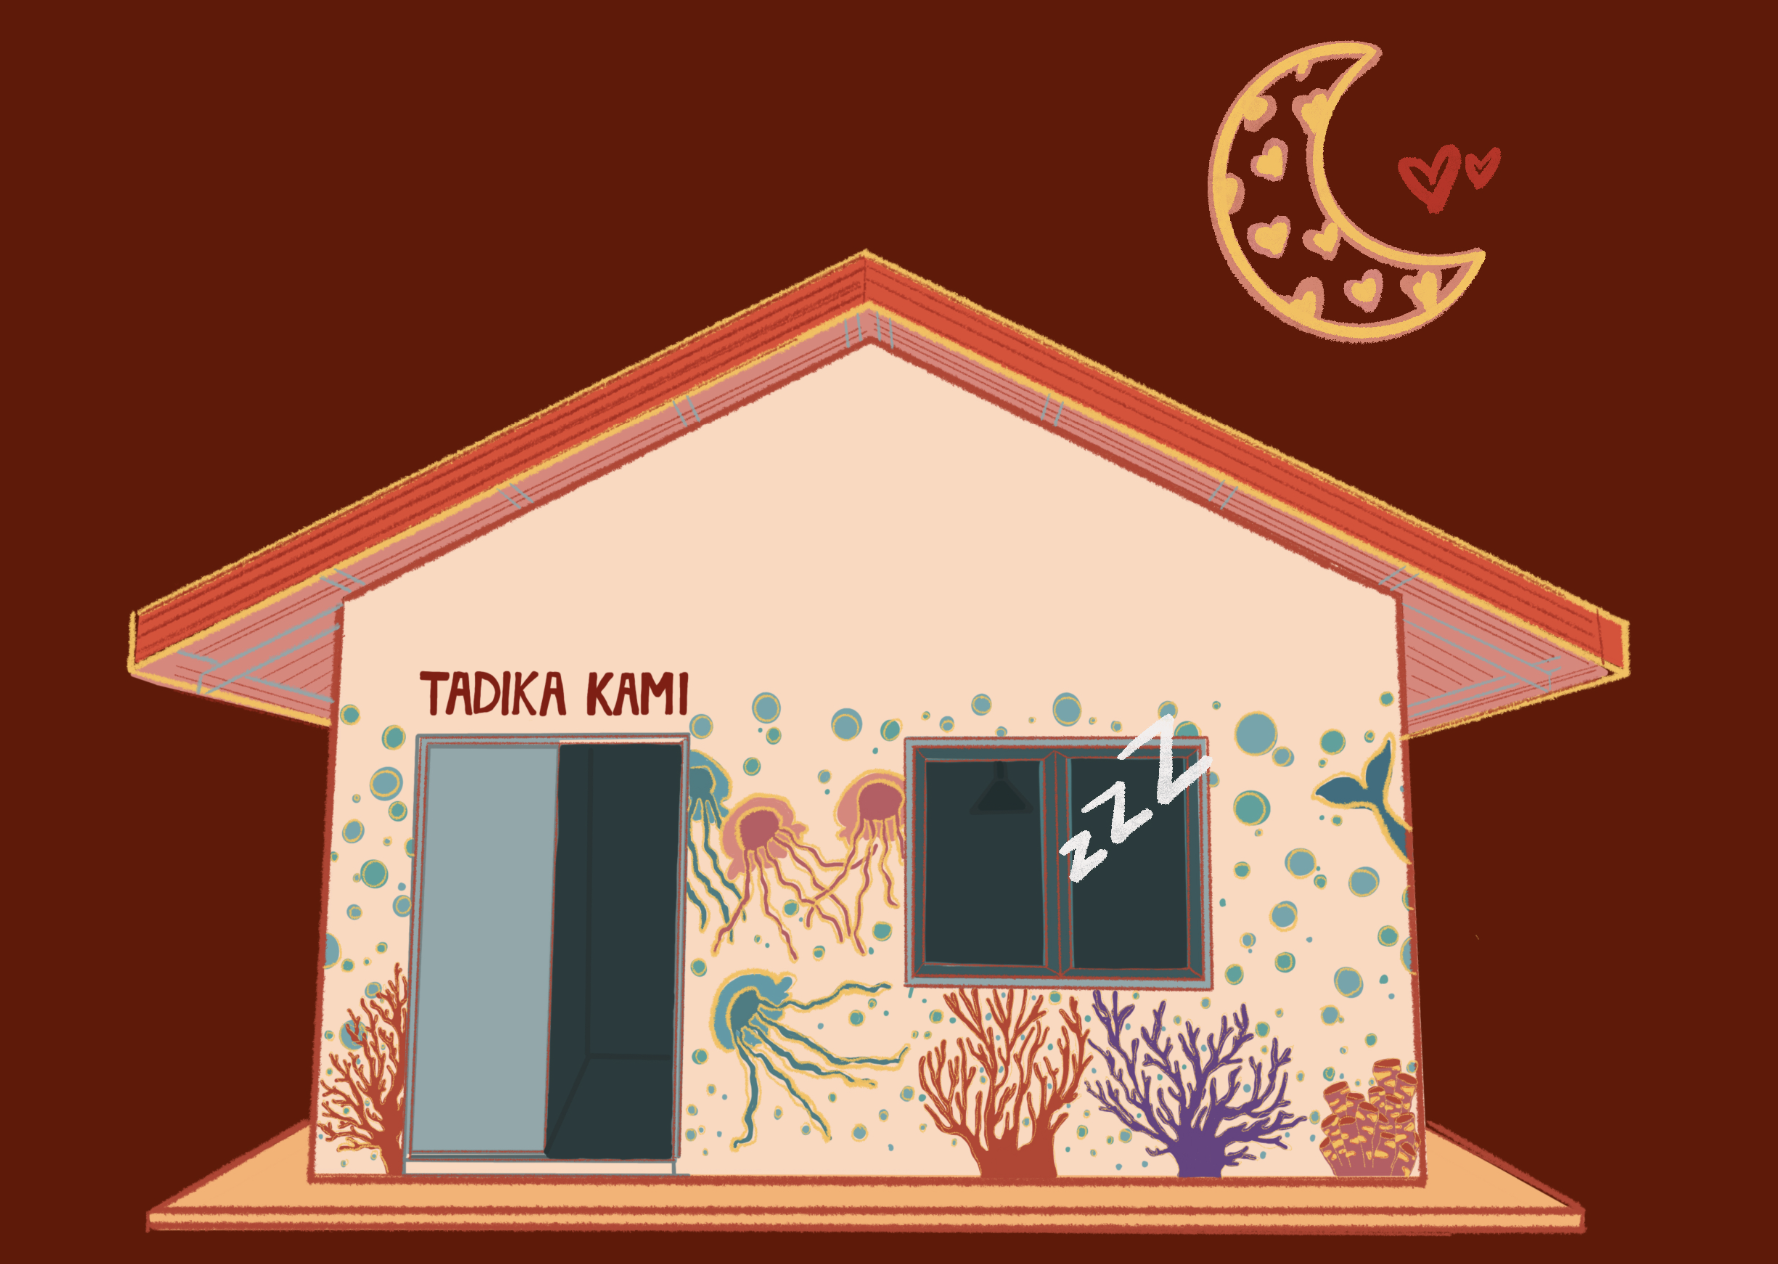
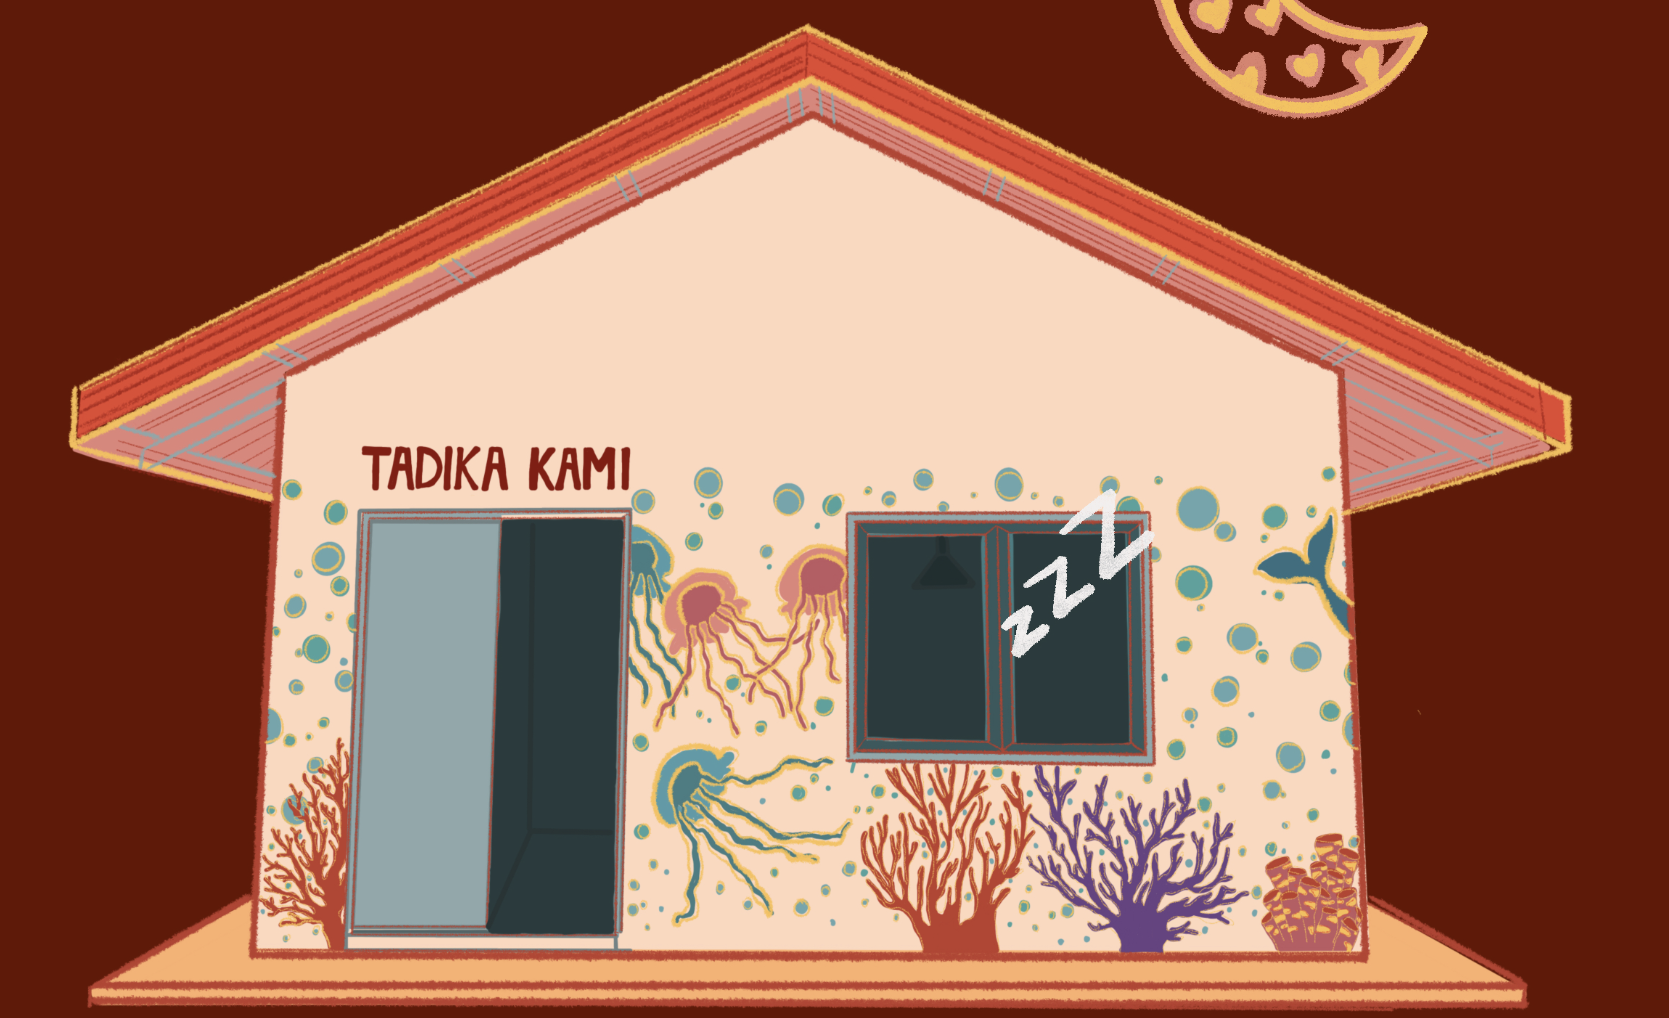
Align house

diff --git a/src/components/SidebarData.js b/src/components/SidebarData.js
@@ -2,37 +2,37 @@ import React from "react";
 
 export const SidebarData = [
   {
-    title: "Home",
+    title: "HOME",
     path: "/",
     cName: "nav-text",
   },
   {
-    title: "About",
+    title: "ABOUT",
     path: "/about",
     cName: "nav-text",
   },
   {
-    title: "Past Projects",
+    title: "PAST PROJECTS",
     path: "/past-projects",
     cName: "nav-text",
   },
   {
-    title: "Fundraisers",
+    title: "FUNDRAISERS",
     path: "/fundraisers",
     cName: "nav-text",
   },
   {
-    title: "RGB School",
+    title: "RGB SCHOOL",
     path: "/rgb-school",
     cName: "nav-text",
   },
   {
-    title: "Join Us",
+    title: "JOIN US",
     path: "/join-us",
     cName: "nav-text",
   },
   {
-    title: "Follow Us",
+    title: "FOLLOW US",
     path: "/follow-us",
     cName: "nav-text",
   },

diff --git a/src/App.css b/src/App.css
@@ -10,17 +10,17 @@
 
 .navbar {
   background-color: #ffffff;
-  height: 80px;
+  height: 75px;
   display: flex;
   justify-content: flex-start;
   align-items: center;
 }
 
 .menu-bars {
-  margin-left: 2rem;
+  margin-left: 1rem;
   font-size: 2rem;
   background: none;
-  color: #000000;
+  color: #b06b6b;
 }
 
 .nav-menu {
@@ -56,7 +56,7 @@
   font-size: 20px;
   width: 95%;
   height: 100%;
-  display:inline-block;
+  display:inline;
   align-items: center;
   padding: 0 16px;
   border-radius: 5px;

diff --git a/src/pages/Home.js b/src/pages/Home.js
@@ -1,11 +1,11 @@
 import React from 'react';
-import home from '../tadika kami.png' 
+import home from '../tadika kami full.png' 
 import '../assets/Home.css'
 
 const Home = () => {
     return (
       <div className='home-div'>
-        <img src={home} className="home" alt="home" />
+          <img src={home} className="home" alt="home" />
       </div>
     );
   };

diff --git a/src/assets/Home.css b/src/assets/Home.css
@@ -1,9 +1,13 @@
+body {
+    overflow: hidden; /* Hide scrollbars */
+}
+
 .home-div {
-    height: 90vh;
+    height: 100vh;
 }
 
 .home {
     max-width:100%;
-    height:auto;
-    /* max-height:100%; */
+    max-height:100%;
+    /* margin-left: 200px; */
 }
